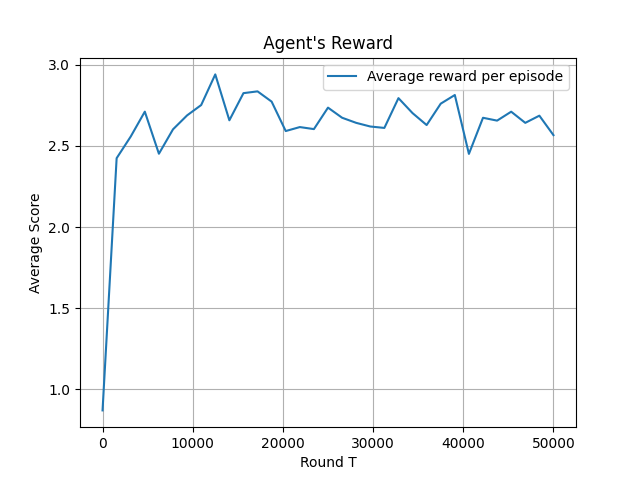
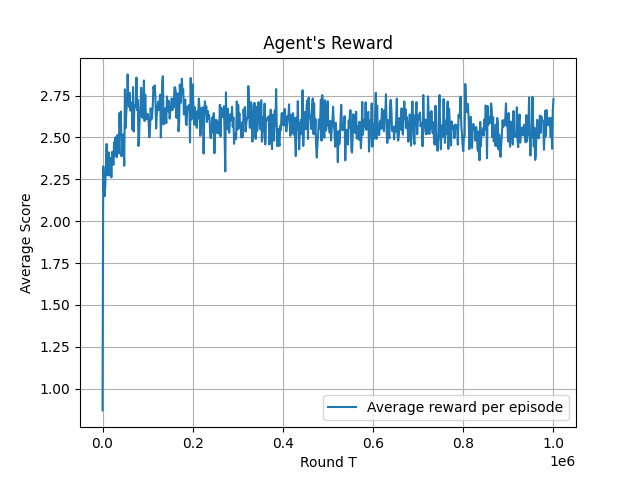
creating per

diff --git a/project/DQN_Agent/agent.py b/project/DQN_Agent/agent.py
@@ -4,7 +4,7 @@ import torch
 import torch.nn as nn
 import torch.optim as optim
 from network import DQN_Network
-from replay_buffer import ReplayBuffer
+from replay_buffer import ReplayBuffer, PriorizedExperienceReplay
 
 class Agent():
     def __init__(   self,
@@ -20,7 +20,10 @@ class Agent():
                     lr = .001,
                     decrease = .99,
                     goal = .02,
-                    update_every = 10
+                    update_every = 10,
+                    per = False,
+                    a = 0,
+                    b = 0
                 ):
         self.device = device
 
@@ -34,7 +37,15 @@ class Agent():
         #memory staffs
         self.batch_size = batch_size
         self.buffer_size = buffer_size
-        self.replay_buffer = ReplayBuffer(batch_size= self.batch_size,buffer_size= self.buffer_size,device= self.device)
+        self.per = per
+        if not per:
+            self.replay_buffer = ReplayBuffer(batch_size= self.batch_size,buffer_size= self.buffer_size,device= self.device)
+        else:
+            self.a = a
+            self.b = b
+            self.offset = .05
+            self.replay_buffer = PriorizedExperienceReplay(batch_size= self.batch_size,buffer_size= self.buffer_size,device= self.device, alpha = a, beta = b)
+            
 
         #miscellaneous
         self.gamma = gamma
@@ -143,8 +154,10 @@ class Agent():
 
         #enough experience was stored, so I can sample a minibatch
         experience = self.replay_buffer.sample()
+        self.set_per_values()
         #now it is time for training
-        self.train(experience)
+        if not self.per:self.train(experience)
+        else: self.train_per(experience)
         
 
 
@@ -152,8 +165,58 @@ class Agent():
         if self.eps > self.goal:
             self.eps = max(self.eps*self.decrease, self.goal)
         if (self.eps == self.goal):
-            print("----------exploration was ended--------------")
+            print("\n----------exploration was ended--------------")
             self.eps = self.goal*self.decrease
+            self.optimizer.param_groups[0]['lr'] = self.lr*0.1
+
+    def train_per(self,experience):
+        self.model.train()
+        self.optimizer.zero_grad()
+        state, action, reward, next_state, done, idx, weights = experience
+        action = torch.tensor(action).to(self.device)
+        legal_actions_batch = list([ns['legal_actions'] for ns in next_state])
+
+        #calulating the max(Q(s',a'))
+        next_qs = self.no_grad_predict(state = next_state, network = self.target_model)
+ 
+        legal_actions = []
+        for b in range(self.batch_size):
+            legal_actions.extend([i + b * self.num_actions for i in legal_actions_batch[b]])
+
+        #masking the illegal moves for Q(s',a')
+        masked_q_values = -np.inf * np.ones(self.num_actions * self.batch_size, dtype=float)
+        masked_q_values[legal_actions] = next_qs.flatten()[legal_actions]
+        masked_q_values = masked_q_values.reshape((self.batch_size, self.num_actions))
+        #calculating the best action based in the Q(s', a')
+        best_actions = np.argmax(masked_q_values, axis=1)
+        
+        #calulating the target
+        done = list(map(float, done))
+        ones= np.ones_like(done)
+        y = reward + self.gamma* next_qs[np.arange(self.batch_size), best_actions]*(ones-done)
+        y = torch.tensor(y, dtype = torch.float32).to(self.device)
+        #so y = rewards + gamma* max(Q(s',a')) * done
+        #calulating the Q(s,a) using the model network
+        state = list([s['obs'] for s in state])
+        state = torch.Tensor(np.array(state)).to(self.device)
+        qs = self.model(state) #calulating the Q(s,a) for every a
+        Q = torch.gather(qs, dim=-1, index=action.unsqueeze(-1)).squeeze(-1) #filtering the selected a
+
+
+        #It's time for training
+        loss = self.criterion(Q,y)
+        loss.backward()
+        self.optimizer.step()
+        self.soft_update()
+        self.model.eval()
+
+        #updating the propabillities
+        td_error =  Q - y
+        difference = td_error + self.offset
+        self.replay_buffer.update_priorities(idx, abs(difference))
+        
+        return
+
 
     def train(self,experience):
 
@@ -198,6 +261,8 @@ class Agent():
         self.soft_update()
         self.model.eval()
 
+       
+
         return
 
     def soft_update(self):
@@ -206,3 +271,8 @@ class Agent():
             target_param.data.copy_(self.TAU*local_param.data + (1.0-self.TAU)*target_param.data)
 
    
+    def set_per_values(self):
+        if not self.per: return
+        self.replay_buffer.set_alpha(1-self.eps)
+        self.replay_buffer.set_beta(1-self.eps)
+    

diff --git a/project/DQN_Agent/replay_buffer.py b/project/DQN_Agent/replay_buffer.py
@@ -63,7 +63,7 @@ class PriorizedExperienceReplay():
         
         #gets the indices depending on the probability p
         indices = np.random.choice(len(self.memory), self.batch_size, p=P) 
-        samples = [self.memory[idx] for idx in indices]
+        sampled_elements = [self.memory[idx] for idx in indices]
         
         
                 
@@ -73,8 +73,23 @@ class PriorizedExperienceReplay():
         weights /= weights.max() 
         weights  = np.array(weights, dtype=np.float32) 
         
-        states, actions, rewards, next_states, dones = zip(*samples) 
-        return np.concatenate(states), actions, rewards, np.concatenate(next_states), dones, indices, weights
+        state = list([s[0] for s in sampled_elements])
+        action = list([s[1] for s in sampled_elements])
+        reward = list([s[2] for s in sampled_elements])
+        next_state = list([s[3] for s in sampled_elements])
+        done = list([s[4] for s in sampled_elements])
+
+        return state, action, reward, next_state, done, indices, weights
     
     def __len__(self):
         return len(self.memory)
+    
+    def update_priorities(self, batch_indices, batch_priorities):
+        for idx, prio in zip(batch_indices, batch_priorities):
+            self.priorities[idx] = prio 
+
+    def set_alpha(self, alpha):
+        self.alpha = alpha
+
+    def set_beta(self, beta):
+        self.beta = beta

diff --git a/project/DQN_Agent/main.py b/project/DQN_Agent/main.py
@@ -21,10 +21,11 @@ if __name__ == '__main__':
     set_seed(seed)
     device = torch.device("cuda" if torch.cuda.is_available() else "cpu")
 
-    horizon = 50_000
+    horizon = 1_000_000
     num_eval_games = 2_000 #how many hands will be played in every tournament
     evaluate_every = 1_500
     index = 0
+    per = True
     
     agent = Agent(
         input_size= env.state_shape[0][0],
@@ -33,12 +34,13 @@ if __name__ == '__main__':
         num_actions=env.num_actions,
         device=device,
         batch_size=32,
-        buffer_size=20_000,
+        buffer_size=20_000 if not per else 100_000,
         gamma = .99,
         lr = .00003,
-        decrease= .99989,#.999999
-        goal = .01,
-        update_every= 1000
+        decrease= .999899,#.999999
+        goal = .1,
+        update_every= 1000,
+        per = per
     )
 
     agents=[agent]
